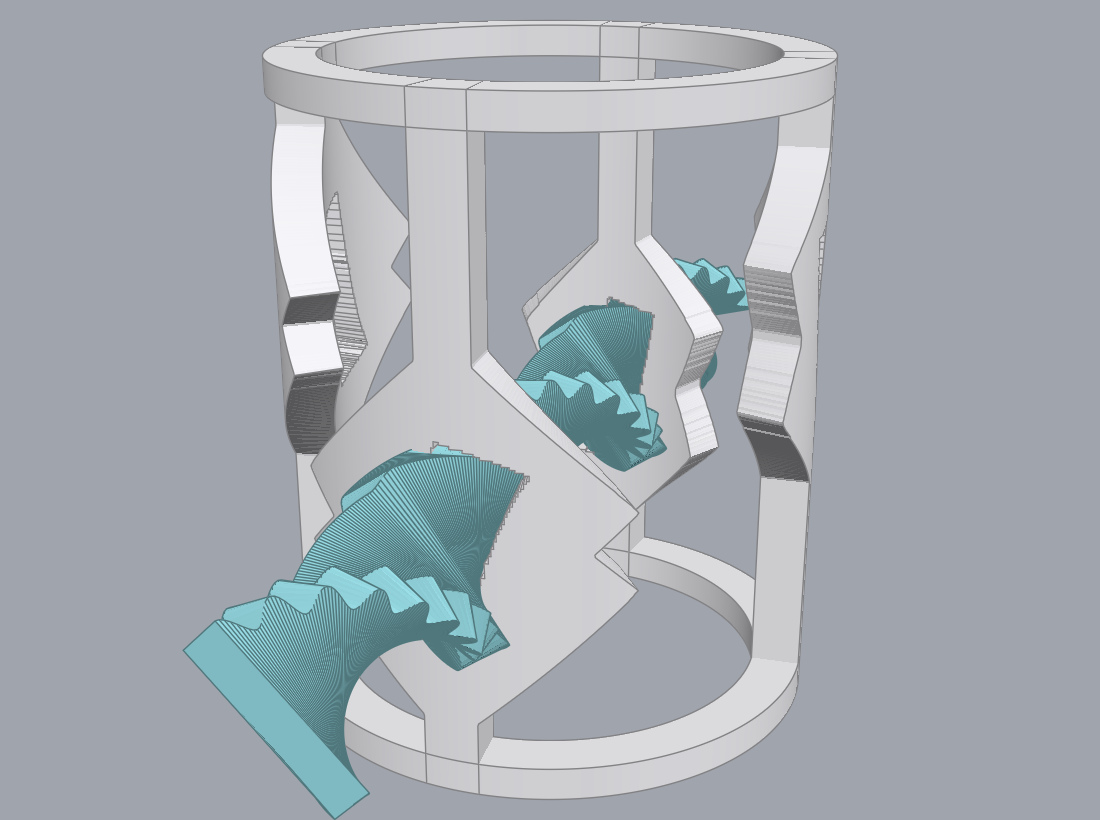
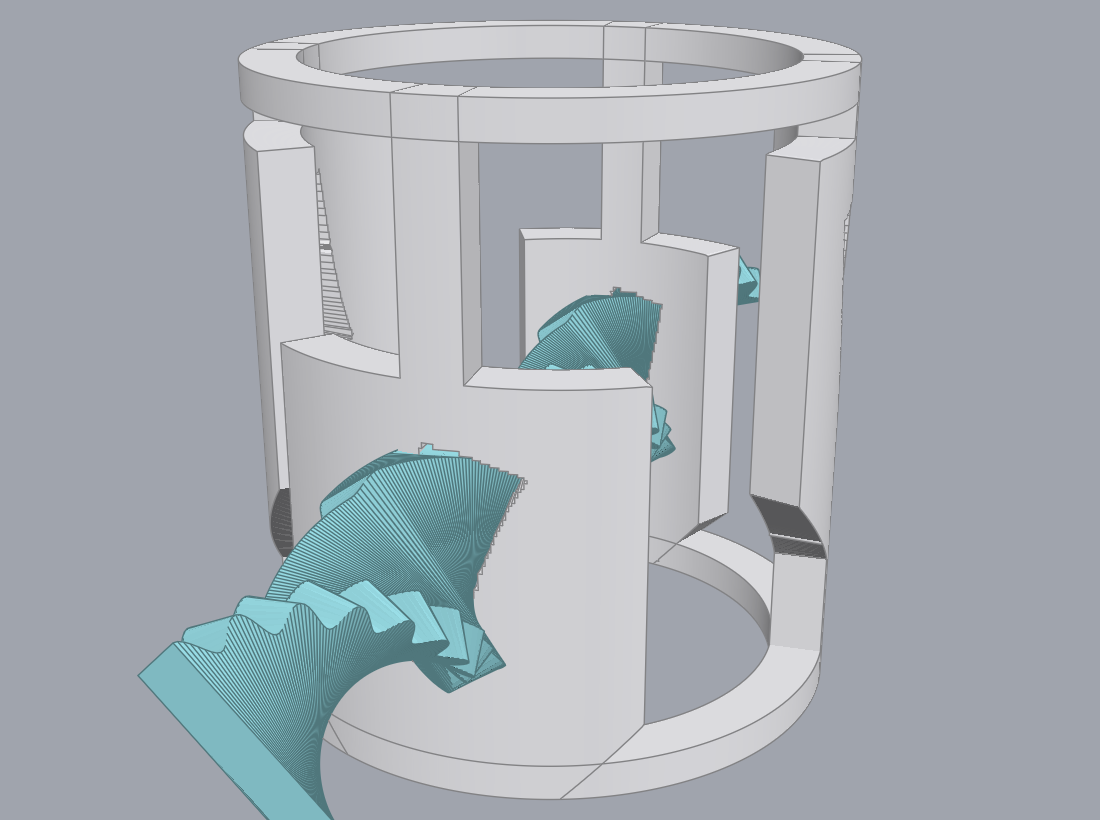
square off the bulge on each post

Changed region(s): [[0.1236, 0.0305, 0.8036, 1.0], [0.6491, 0.8232, 0.68, 0.8537]]

diff --git a/proof/screwgear/cage_test.go b/proof/screwgear/cage_test.go
@@ -91,13 +91,18 @@ func (q piece) holds(p Params, pt r3.Vec) bool {
 	return math.Min(d, 2*math.Pi-d) <= q.halfAngleAt(pt.Z)
 }
 
-// postPiece is one post: a column running the full height, whose width FOLLOWS
-// its bore. It is widest where the bore is widest and narrows to PostWidth
-// everywhere else, so it meets the plates at both ends with no step and carries
-// no material it does not need.
+// postPiece is one post: a column running the full height, which widens where
+// its bore needs it and narrows to PostWidth everywhere else, so it meets the
+// plates at both ends with no step.
 //
-// The width at each height is measured rather than derived, because the bore is
-// a twisted channel through a wall it is not aligned with.
+// The widening is a PLAIN BOX: one width, held over the bore's whole height,
+// with a 45 degree ramp at each end down to the plain post. It does not follow
+// the bore's own outline height by height. A twisted bore's outline zig-zags,
+// and a wall cut to it would be a row of notches — weaker, uglier, and harder
+// to print than the straight wall that costs a little more material.
+//
+// What the box has to be is measured rather than derived, because the bore is a
+// twisted channel through a wall it is not aligned with.
 func postPiece(g Gear, station float64) piece {
 	p := g.P
 	const step = 0.1
@@ -119,22 +124,44 @@ func postPiece(g Gear, station float64) piece {
 				}
 			}
 		}
-		half[j] = p.PostWidth / 2
+		half[j] = 0
 		if widest > 0 {
-			half[j] = math.Max(p.PostWidth/2, widest+p.BlockWall)
+			half[j] = widest + p.BlockWall
 		}
 	}
 
-	// Hold the widening to 45 degrees. A post that widens faster than it rises
-	// leaves its new material hanging off nothing, and a filament printer will
-	// not bridge that. Taking each height's width as the largest any other
-	// height demands, less the distance between them, is exactly a 45 degree
-	// ramp either side of every bulge.
+	// Square the bulge off: one width over one stretch of height, both taken
+	// from what the bore needs at its worst.
+	wide, lo, hi := 0.0, math.Inf(1), math.Inf(-1)
+	for j, h := range half {
+		if h == 0 {
+			continue
+		}
+		z := -p.CageRise + float64(j)*step
+		wide = math.Max(wide, h)
+		lo, hi = math.Min(lo, z), math.Max(hi, z)
+	}
+	for j := range half {
+		z := -p.CageRise + float64(j)*step
+		half[j] = p.PostWidth / 2
+		if z >= lo-p.BlockWall && z <= hi+p.BlockWall {
+			half[j] = math.Max(half[j], wide)
+		}
+	}
+
+	// Hold the widening to 45 degrees, on the underside only.
+	//
+	// A print is built upward, so material that appears above nothing is what
+	// will not bridge. Widening as the post rises is that case and is ramped;
+	// narrowing again is not, because what is left rests on what is under it,
+	// so a bulge may end in a flat shelf. Taking each height's width as the
+	// largest any height ABOVE demands, less the distance up to it, is exactly
+	// a 45 degree ramp under every bulge and a square top on it.
 	ramped := make([]float64, n)
 	for j := range n {
-		want := 0.0
-		for k := range n {
-			want = math.Max(want, half[k]-math.Abs(float64(j-k))*step)
+		want := half[j]
+		for k := j; k < n; k++ {
+			want = math.Max(want, half[k]-float64(k-j)*step)
 		}
 		ramped[j] = want / p.CageRadius
 	}
@@ -218,12 +245,13 @@ func TestBoresSitOnOppositeSidesOfTheMiddle(t *testing.T) {
 	}
 }
 
-// A post runs from plate to plate with no break in it, and the width it carries
-// round its bore has to run out into the plain post before the plate, or the
-// frame reads as a slab floating between two rings.
+// A post runs from plate to plate with no break in it.
 //
-// This walks each post's whole height and fails on any gap, and reports where
-// the widening starts and stops.
+// It does NOT have to be back to its plain width by the time it reaches a
+// plate. A plate runs the whole way round, so a post still widening where it
+// meets one merges into material that is already there: no step, no gap, and
+// nothing unsupported. Requiring the ramp to finish first only made the cage
+// taller for nothing.
 func TestPostsRunUnbrokenIntoThePlates(t *testing.T) {
 	ga, gb := defaultPair()
 	p := ga.P
@@ -246,10 +274,7 @@ func TestPostsRunUnbrokenIntoThePlates(t *testing.T) {
 					wideHi = z
 				}
 			}
-			if wideLo <= -p.CageRise+p.PlateThick || wideHi >= p.CageRise-p.PlateThick {
-				t.Errorf("the post at %.0f degrees is still widening at the plate, from %.2f to %.2f",
-					q.azimuth*180/math.Pi, wideLo, wideHi)
-			}
+			_, _ = wideLo, wideHi
 		}
 	}
 	t.Logf("each post runs the full %.1f mm, widening only round its bore", 2*p.CageRise)
@@ -257,10 +282,11 @@ func TestPostsRunUnbrokenIntoThePlates(t *testing.T) {
 
 // Nothing on the frame may hang off nothing. A filament printer will not bridge
 // a surface shallower than 45 degrees, and the one place the frame could offer
-// one is where a post widens round its bore.
+// one is where a post widens as it rises.
 //
-// The check is on the profile itself: half a millimetre more width per
-// millimetre of height is a 45 degree ramp, and anything steeper is an overhang.
+// Only widening counts. A print is built upward, so what will not bridge is
+// material appearing above nothing; where a bulge ends and the post narrows
+// again, what is left rests on what is under it, and that shelf prints.
 func TestPostsNeverOverhang(t *testing.T) {
 	ga, gb := defaultPair()
 	p := ga.P
@@ -270,7 +296,7 @@ func TestPostsNeverOverhang(t *testing.T) {
 			q := postPiece(g, station)
 			for j := 1; j < len(q.half); j++ {
 				rise := q.step
-				run := math.Abs(q.half[j]-q.half[j-1]) * p.CageRadius
+				run := (q.half[j] - q.half[j-1]) * p.CageRadius
 				if run > rise+1e-9 {
 					t.Fatalf("the post at %.0f degrees widens %.3f mm over %.3f mm of height, "+
 						"which is steeper than 45 degrees", q.azimuth*180/math.Pi, run, rise)

diff --git a/proof/screwgear/geometry_test.go b/proof/screwgear/geometry_test.go
@@ -67,7 +67,7 @@ func defaultParams() Params {
 		BossGrow:  0.6,
 
 		CageRadius: 15,
-		CageRise:   20,
+		CageRise:   18,
 		ShellThick: 3,
 		PlateThick: 2,
 		PostWidth:  3,

diff --git a/spec/screwgear/instructions.md b/spec/screwgear/instructions.md
@@ -246,7 +246,7 @@ User inputs in dialog order. All linear inputs are mm; the mounting angles are d
 | Boss Taper | `bossTaper` | mm | 0.9 |
 | Boss Height | `bossGrow` | mm | 0.6 |
 | Cage Radius | `cageRadius` | mm | 15 |
-| Cage Rise | `cageRise` | mm | 20 |
+| Cage Rise | `cageRise` | mm | 18 |
 | Shell Thickness | `shellThick` | mm | 3 |
 | Plate Thickness | `plateThick` | mm | 2 |
 | Post Width | `postWidth` | mm | 3 |
@@ -390,20 +390,24 @@ same rectangular section about `n̂`, so every outside face lands on that one cy
   `postWidth` wide along most of its length and **widens only where its bore needs it**, running
   back out into the plain width before it reaches either plate.
 
-  The width at each height is `bore width there + blockWall`, **measured rather than derived**,
-  because the bore is a twisted channel through a wall it is not aligned with. `postPiece` in the
-  proof is that measurement. A post of one width would either be too narrow at its bore or carry
-  material it does not need everywhere else, and a separate block sitting on a narrow post leaves a
-  step at the join that reads as a gap.
+  **The widening is a plain box**: one width, held over the bore's whole height, with straight
+  vertical sides. It does not follow the bore's own outline height by height. A twisted bore's
+  outline zig-zags, and a wall cut to it would be a row of notches — weaker, uglier and harder to
+  print than the straight wall that costs a little more material. What the box has to be is
+  **measured rather than derived**, because the bore is a twisted channel through a wall it is not
+  aligned with, and `postPiece` in the proof is that measurement.
 
   **`blockWall` is 3 mm and that is a floor, not a preference.** Less than that leaves the frame a
   shell exactly where it is most worked, at the one place it holds a gear.
 
-  **The widening is then held to 45°.** A post that widens faster than it rises leaves its new
-  material hanging off nothing, and a filament printer will not bridge that. Take each height's
-  width as the largest any other height demands, less the distance between them: that is a 45° ramp
-  either side of every bulge, and it is what sets `cageRise`, because the ramps have to run out
-  before the plates.
+  **The box is ramped at 45°, on its underside only.** A print is built upward, so what will not
+  bridge is material appearing above nothing: widening as the post rises is that case and is ramped,
+  while narrowing again is not, because what is left rests on what is under it. So a bulge has a
+  ramp beneath it and a square shelf on top.
+
+  A ramp may run into a plate. A plate goes the whole way round, so a post still widening where it
+  meets one merges into material that is already there, and requiring the ramp to finish first only
+  makes the cage taller for nothing.
 
 **Bore each post with a twisted clearance ribbon** (`[SCREW-F-TWISTED-SLOT]`): loft five rectangles
 of `(W + 2*bossGrow + 2*clearance)` by `(T + 2*bossGrow + 2*clearance)` on planes along that gear's
@@ -454,8 +458,9 @@ and it is cheap enough to run the search a few million times. The package import
 - `TestPostsRunUnbrokenIntoThePlates` walks each post's whole height and fails on any break in it,
   and requires the widening to have run out before the plate. `TestPostsAreNarrowAwayFromTheirBores`
   requires the widening to earn its material, at no more than half the bore's width at the plate.
-- `TestPostsNeverOverhang` is the printing rule: it walks the width profile and fails on any step
-  steeper than 45°. `TestBoresKeepTheirWall` walks every height of every post and fails if the
+- `TestPostsNeverOverhang` is the printing rule: it walks the width profile and fails on any
+  WIDENING step steeper than 45°, and passes a narrowing of any steepness, which is the asymmetry a
+  print built upward has. `TestBoresKeepTheirWall` walks every height of every post and fails if the
   material round a bore drops under 3 mm.
 - `TestTheMiddleStaysOpen` keeps the frame out of the space the gears mesh in.
 - `TestStrokeIsTheBossLength` and `TestTeethNeverReachABore` hold the boss: the travel is 2.5 teeth,

diff --git a/proof/screwgear/README.md b/proof/screwgear/README.md
@@ -65,9 +65,14 @@ each end, and four posts between them. A post runs 3.00 mm wide for most of its 
 to 14.20 mm only where its bore needs it, running back out into the plain width before it reaches
 either plate, so there is no step at the join and no gap.
 
-**Two printing rules shape that widening.** It never rises steeper than 45°, because a filament
+The widening is a plain box with straight vertical sides, held over the bore's whole height. It does
+not follow the bore's own outline, which zig-zags, because a wall cut to that would be a row of
+notches.
+
+**Two printing rules shape it.** It never widens faster than 45° as it rises, because a filament
 printer will not bridge a shallower surface, and it never leaves under 3 mm of material round a
-bore. The ramps are what make the cage 40 mm tall: they have to run out before the plates. Each post sits where one ribbon crosses the cylinder
+bore. Only widening is ramped: a print is built upward, so a bulge gets a ramp beneath it and a
+square shelf on top. Each post sits where one ribbon crosses the cylinder
 and carries a **bore** that ribbon passes through. Two posts are bored low and two high, so the two
 gears pass at different heights and their teeth meet in the middle.
 
@@ -117,7 +122,7 @@ four tooth pairs land in the engaged zone at once and cannot all interdigitate, 
 | Bore angle | 15° off upright, which is the best the mounting angles allow |
 | Play in the frame | a bore jams a gear 3.21° out of step |
 | Stroke | 5.03 mm, or 2.9 teeth |
-| Post width | 3.00 mm, widening to 14.20 mm at a bore, on 45° ramps |
+| Post width | 3.00 mm, widening to 14.20 mm at a bore, ramped at 45° underneath |
 | Wall round a bore | 3 mm everywhere |
 
 `TestPairDrivesOneToOne` is where the first four come from. It tracks the interval of gear B's
